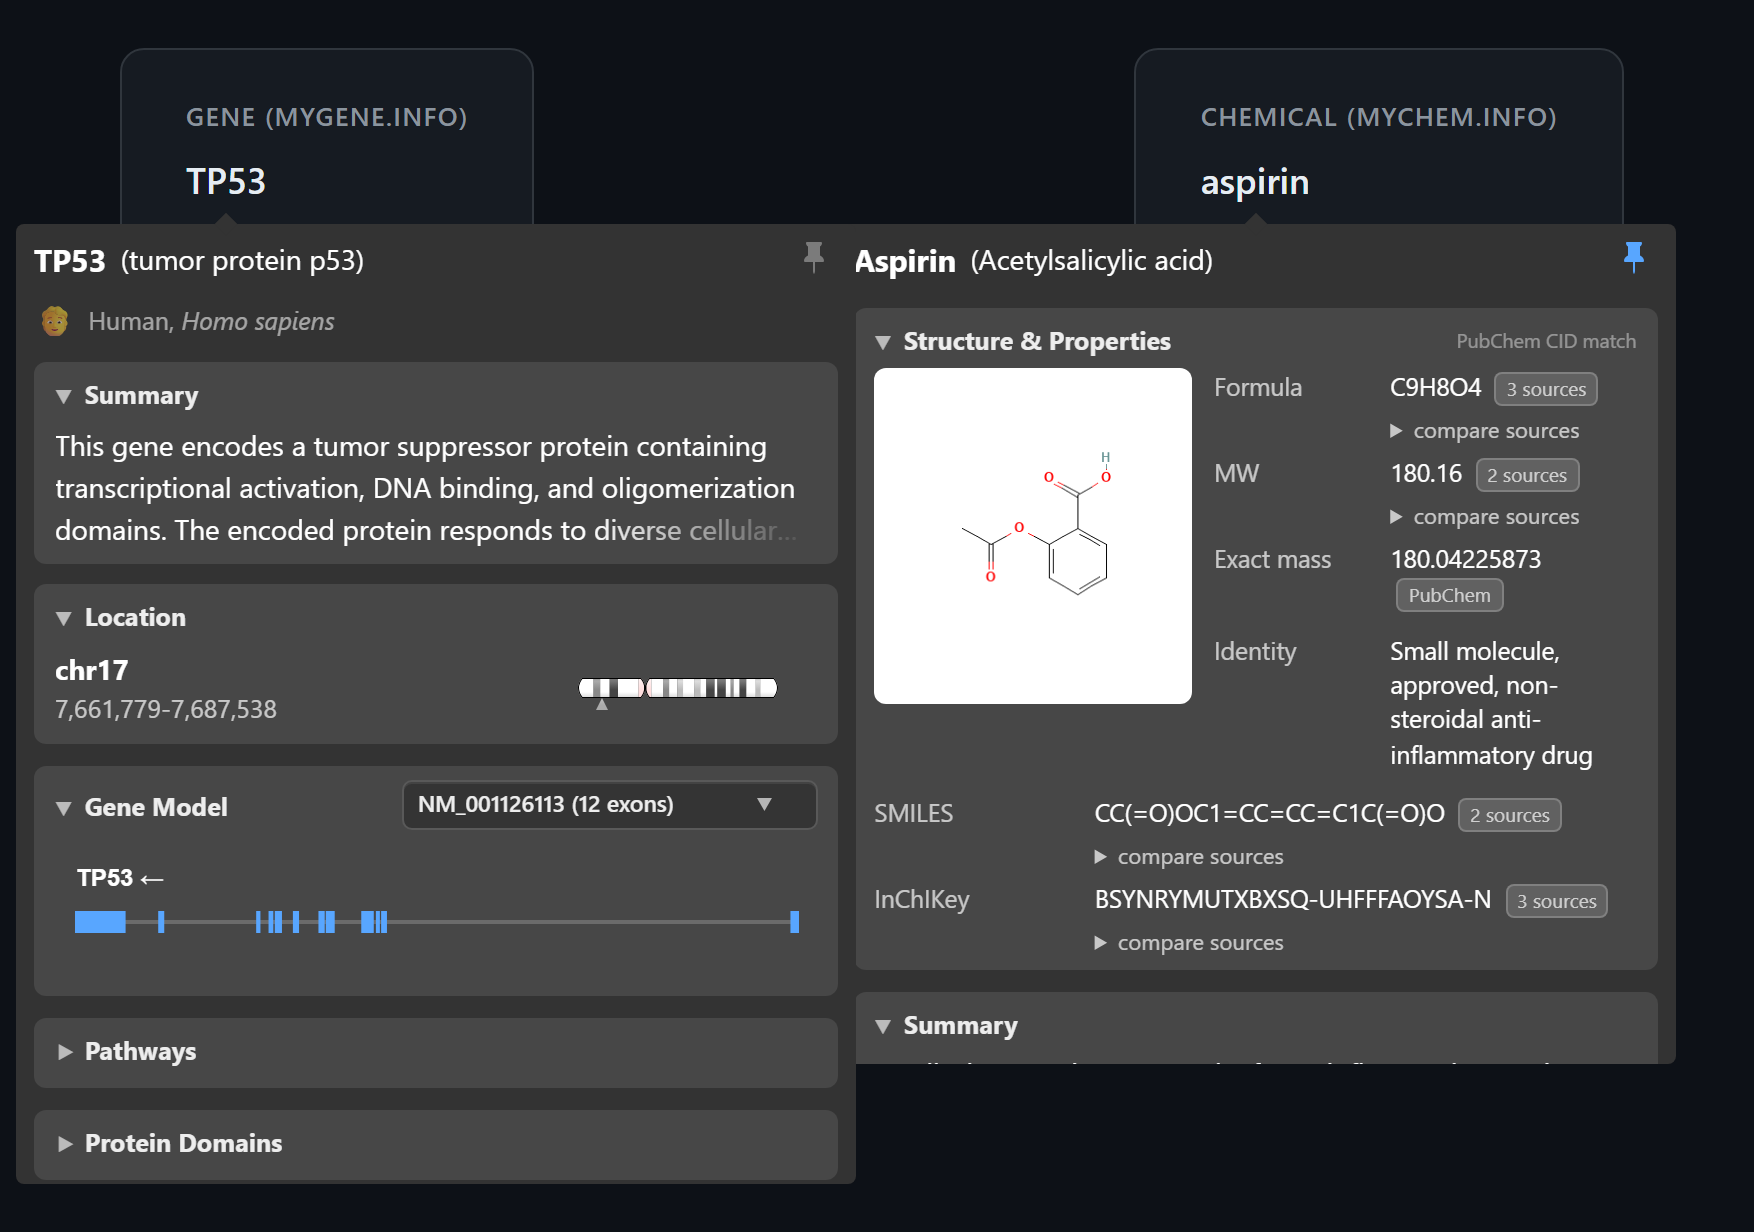
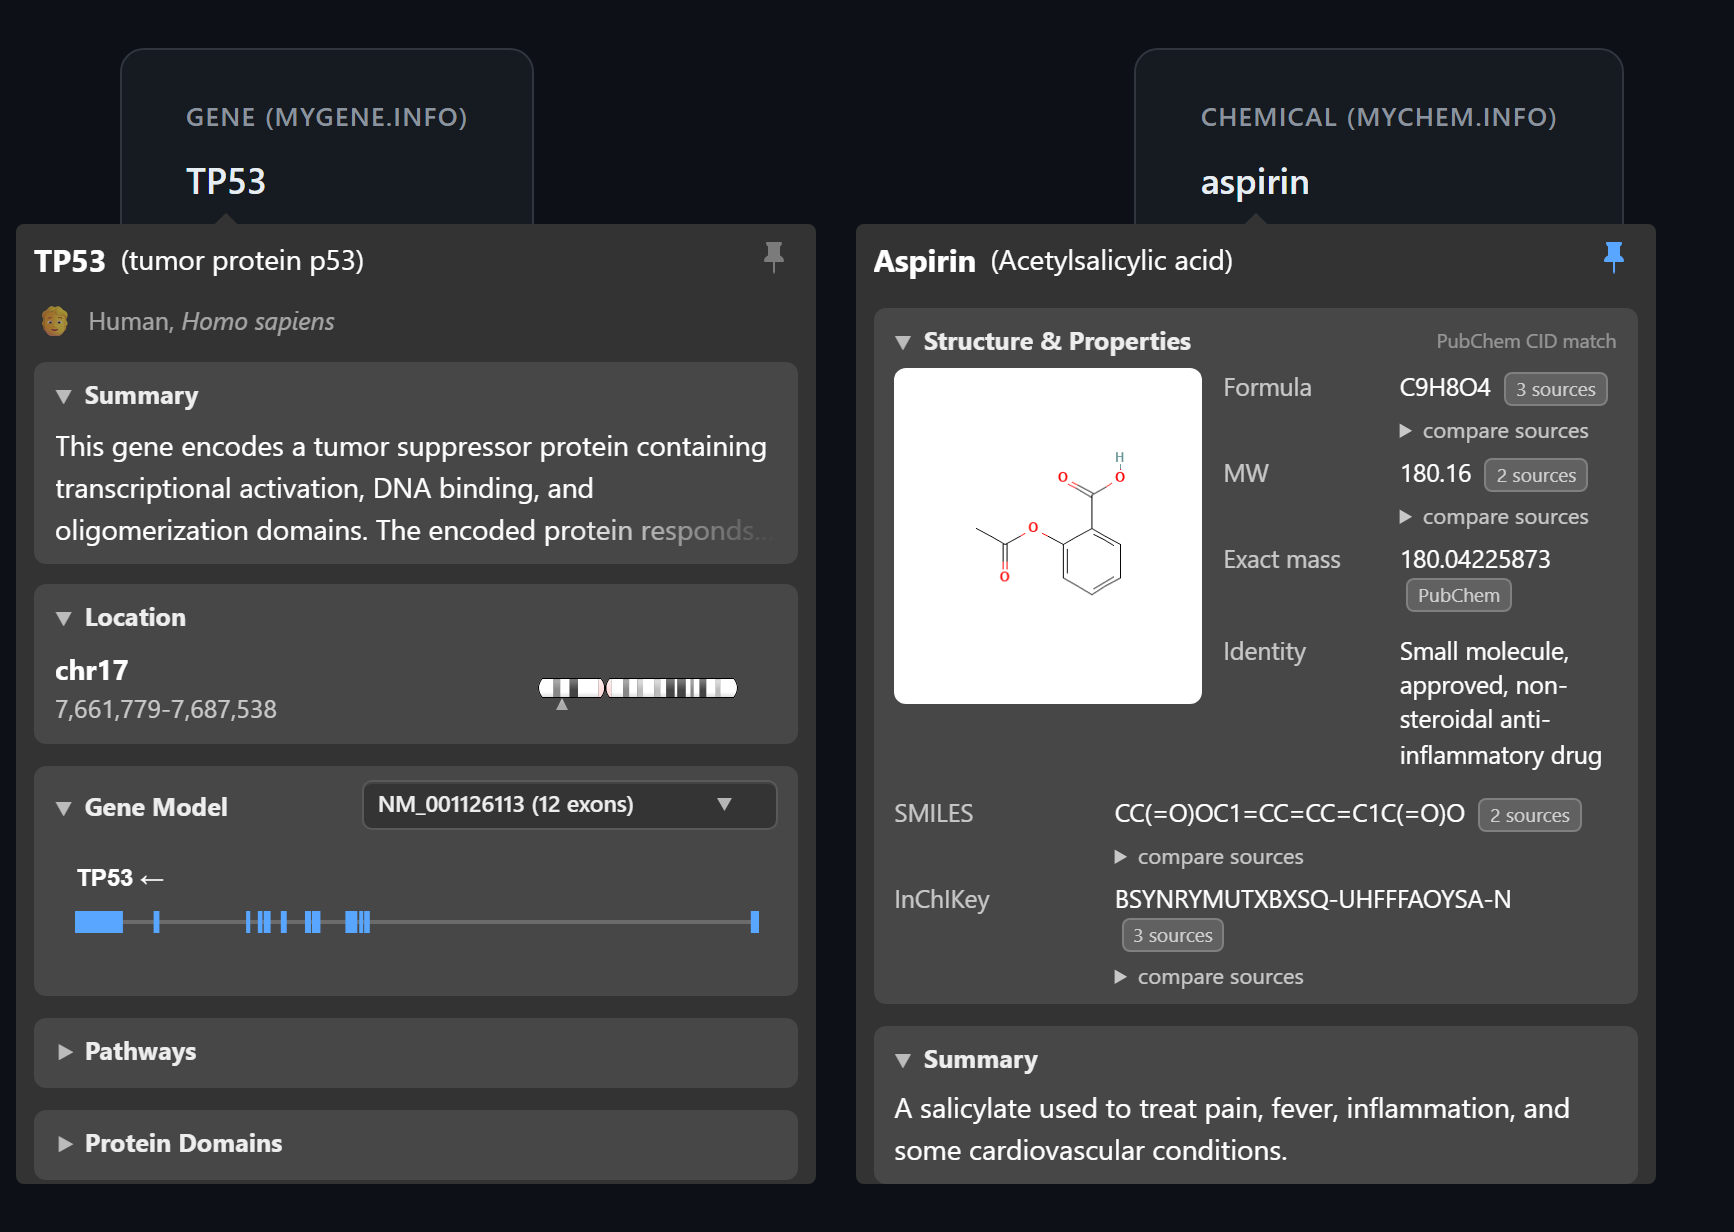
fix: update tooltip dimensions in screenshots

diff --git a/screenshots/screenshot.html b/screenshots/screenshot.html
@@ -90,12 +90,12 @@
                 },
                 ideogram: { enabled: true, height: 100 },
                 tooltipHeight: 480,
-                tooltipWidth: 420,
+                tooltipWidth: 400,
                 theme
             });
             ChemicalTooltip.init({
-                tooltipHeight: 420,
-                tooltipWidth: 420,
+                tooltipHeight: 480,
+                tooltipWidth: 400,
                 theme
             });
         });
